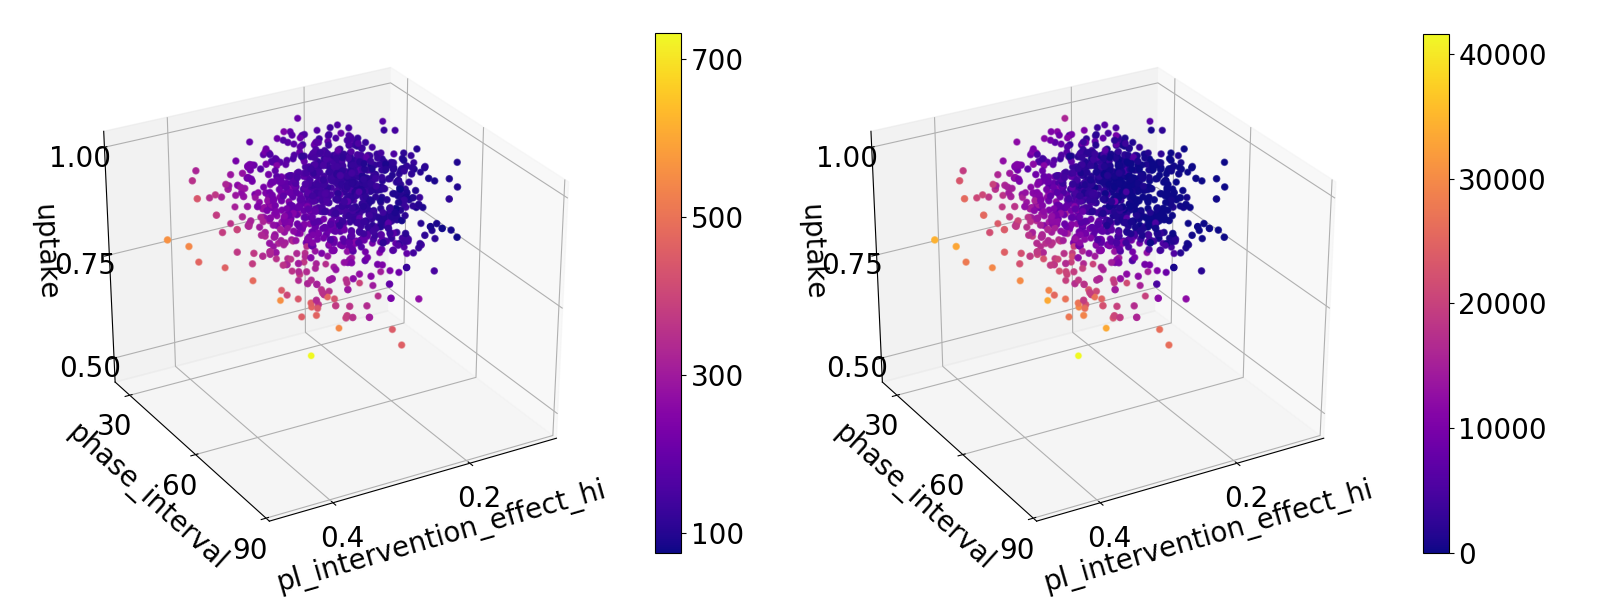
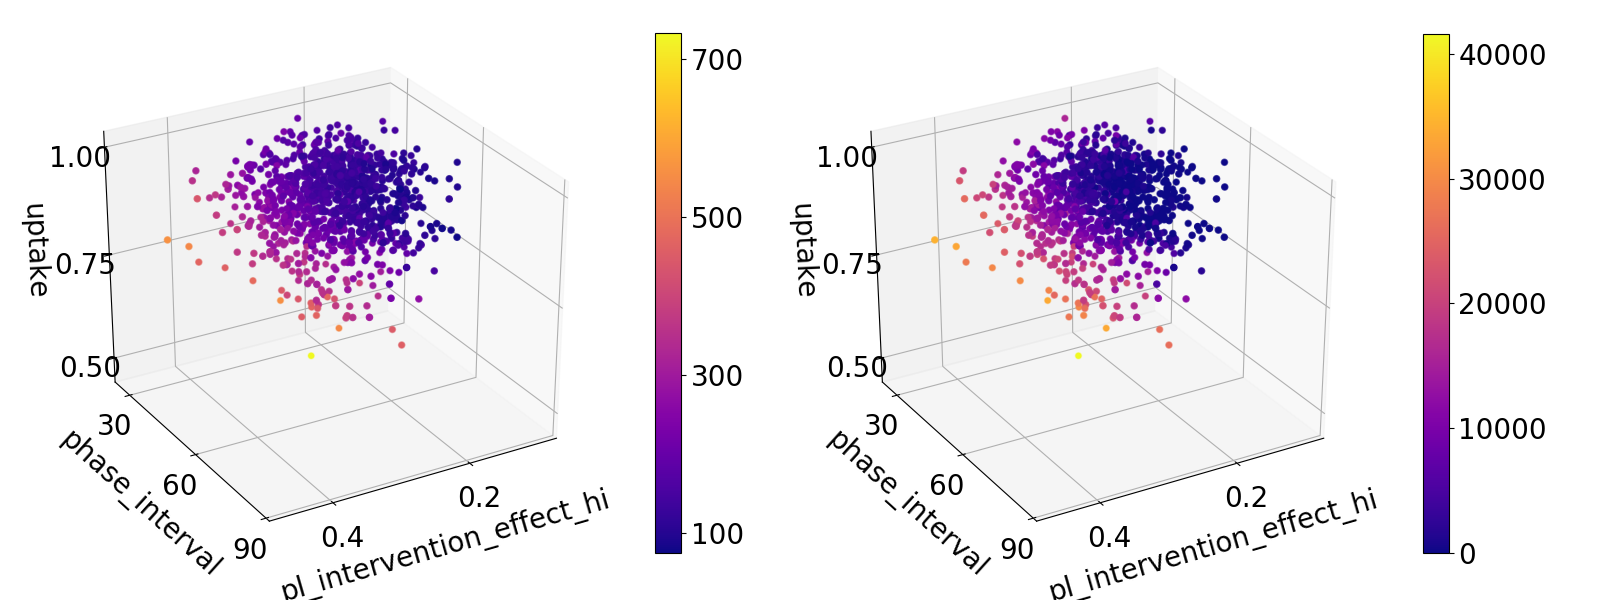
adjust label positions

diff --git a/EasyVVUQ/heatmap_PO.py b/EasyVVUQ/heatmap_PO.py
@@ -206,9 +206,9 @@ ax_p.set_xticks([0.2, 0.4])
 ax_p.set_yticks([30, 60, 90])
 ax_p.set_zticks([0.5, 0.75, 1])
 
-ax_p.xaxis.labelpad = 10
-ax_p.yaxis.labelpad = 10
-ax_p.zaxis.labelpad = 10
+ax_p.xaxis.labelpad = 15
+ax_p.yaxis.labelpad = 15
+ax_p.zaxis.labelpad = 15
 
 ax_p.view_init(azim=60)
 
@@ -223,9 +223,9 @@ ax_e.set_xticks([0.2, 0.4])
 ax_e.set_yticks([30, 60, 90])
 ax_e.set_zticks([0.5, 0.75, 1])
 
-ax_e.xaxis.labelpad = 10
-ax_e.yaxis.labelpad = 10
-ax_e.zaxis.labelpad = 10
+ax_e.xaxis.labelpad = 15
+ax_e.yaxis.labelpad = 15
+ax_e.zaxis.labelpad = 15
 
 ax_e.view_init(azim=60)
 
